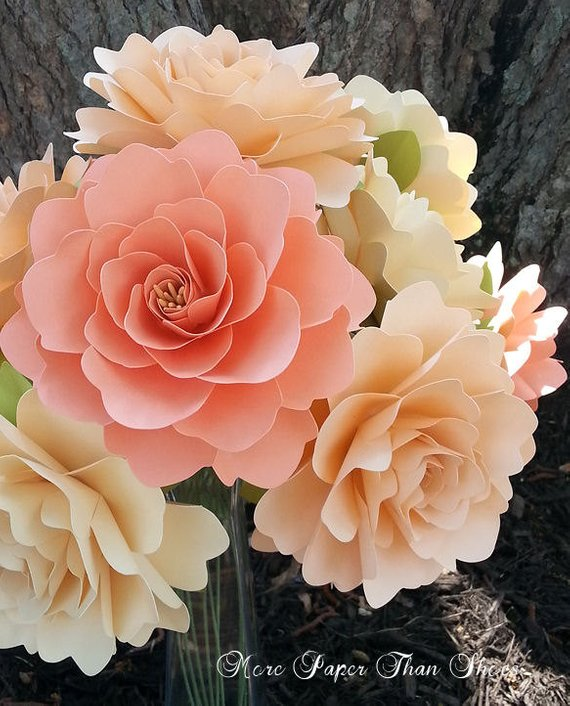
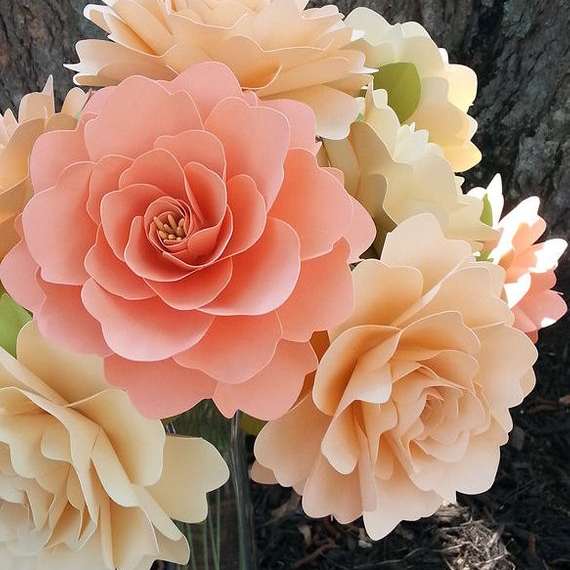
need to fix image size and remaining hovers

diff --git a/index.html b/index.html
@@ -4,11 +4,14 @@
 <link type="text/css" rel="stylesheet" href='main.css' />
 
 <!-- bootstrap -->
-<link rel="stylesheet" href="https://stackpath.bootstrapcdn.com/bootstrap/4.1.1/css/bootstrap.min.css" integrity="sha384-WskhaSGFgHYWDcbwN70/dfYBj47jz9qbsMId/iRN3ewGhXQFZCSftd1LZCfmhktB" crossorigin="anonymous">
+<!-- <link rel="stylesheet" href="https://stackpath.bootstrapcdn.com/bootstrap/4.1.1/css/bootstrap.min.css" integrity="sha384-WskhaSGFgHYWDcbwN70/dfYBj47jz9qbsMId/iRN3ewGhXQFZCSftd1LZCfmhktB" crossorigin="anonymous"> -->
 
 <!-- materialize css -->
 <link rel="stylesheet" href="https://cdnjs.cloudflare.com/ajax/libs/materialize/1.0.0-rc.2/css/materialize.min.css">
-
+<!--
+animate class -->
+<link rel="stylesheet"
+  href="https://cdn.jsdelivr.net/npm/animate.css@3.5.2/animate.min.css">
 
 
 
@@ -19,52 +22,81 @@
   <div>
     <nav>
   <div class="nav-wrapper">
-    <a class="brand-logo" >Munder Difflin Custom Stationary and Paper Products</a>
+    <a class="brand-logo">Munder Difflin Custom Stationary and Paper Products</a>
     <ul id="nav-mobile" class="right hide-on-med-and-down">
       <li><a href="#">Login</a></li>
       <li><a href="#">Checkout</a></li>
-      <!-- <li><a href="collapsible.html">JavaScript</a></li> -->
     </ul>
   </div>
 </nav>
-
-
 </div>
 
+<section>
+    <nav>
+      <div class=" sale-wrap">
+        <a href="#" class="brand-logo center animated flash infinite">SALE! going on now! +Free Shipping</a>
+        <button class="right">Click Here! to save!</button>
+        </ul>
+      </div>
+    </nav>
+  </section>
 
-<div class="b-container">
+<br>
+<div>
 
 
-  <div id="main-img">
+  <div class="animated fadeIn"   id="main-img">
       <img src="images/backpic.jpg">
     </div>
 
-
-
+<br>
 <div id="reviews-banner">
  <div class="reviews-grid">
-   <p>"I love my personalized stationary! Such Great quality and for such a low price! Definitely reordering.""    - Nat (NY)</p>
+  <div> <p><i><b>"I love the personalized stationary! Such great quality and for such low prices! I just reordered for myself and as gifts for my friends"</i></b></p>
 
-   <p>"Everyone marveled over our wedding invitations!  We coudl not have asked for anything more."       - Janet &  Mike (CA)</p>
+    <p style="text-align:right"><i><b>- Nat P. (NY)</i></b></p>
+</div>
+
+   <div><p><i><b>"Everyone marveled over our wedding invitations!  And the service we received in the customizing process, is unmatched.  We could not have asked for anything more.  Thank you for everything."</i></b></p>
+      <p style="text-align:right"><i><b>- Jes &  Mike S. (FL)</i></b></p></div>
 
 
-   <p>"I love the quality of the custom organic floral papers.  I make personalized greeting cards with them and my customers LOVE it!  -JS</p>
+  <div> <p><i><b>"I love the quality of the organic floral stationary.  I make personalized greeting cards with them and my customers LOVE it! </i></b></p>
+    <p style="text-align:right"><i><b>-JG (CA)</i></b></p></div>
 
-   <p>Paper flowres</p>
+
+   <div><p><i><b>"Gorgous paper flowers and thank you cards for my baby shower.  The prices are unbeatable for the superior level of quality."   </i></b></p>
+      <p style="text-align:right"><i><b>- Keisha M. (TX)</i></b></p></div>
 
  </div>
 </div>
 
 
+<p></p>
 
 <div>
   <div class="sale-grid">
-    <div><img src="images/custom.jpg" class=></div>
-    <div><img src="images/flowers.jpg"></div>
-    <div><img src="images/invite.jpg"></div>
-    <div><img src="images/flo.jpg"></div>
-    <div><img src="images/wed.jpg"></div>
-    <div><img src="images/stat.jpg"></div>
+    <div class="basket" id="pic1">
+        <div><img src="images/custom.jpg" class="pic-size"></div>
+        <div class="centered hidden" id="text1">Custom Paper</div>
+    </div>
+
+    <div class="basket">
+        <div><img src="images/flowers.jpg" class="pic-size" id="pic2"></div>
+        <div class="centered hidden" id="text2">Paper Flowers</div>
+    </div>
+
+
+    <div><img src="images/invite.jpg" class="pic-size" id="pic3">Custom Invitations</div>
+
+
+    <div><img src="images/flo.jpg" class="pic-size" id="pic4">Pressed Flowers</div>
+
+
+    <div><img src="images/wed.jpg" class="pic-size"id="pic5">Wedding Invitations</div>
+
+
+    <div><img src="images/stat.jpg" class="pic-size" id="pic6">Custom Stationary</div>
 
 
 
@@ -78,6 +110,9 @@
 
 
 </div>
+
+<br>
+<br>
 <footer class="footer-grid">
   <p></p>
   <div class="footer-grid">

diff --git a/main.js b/main.js
@@ -1,0 +1,80 @@
+document.getElementById('pic1').addEventListener('mouseover', mouseOver);
+document.getElementById('pic1').addEventListener('mouseout', mouseOut);
+// var text = document.getElementById('text1').value
+
+function mouseOver() {
+  document.getElementById('pic1').style.opacity=0.5;
+  document.getElementById('text1').style.opacity=1;
+}
+function mouseOut() {
+  document.getElementById('pic1').style.opacity=1;
+  document.getElementById('text1').style.opacity=0;
+
+}
+
+ // +++++++++++++pic2+
+ document.getElementById('pic2').addEventListener('mouseover', mouseOver2);
+ document.getElementById('pic2').addEventListener('mouseout', mouseOut2);
+
+ function mouseOver2() {
+   document.getElementById('pic2').style.opacity=0.5;
+   document.getElementById('text2').style.opacity=1;
+ }
+
+ function mouseOut2() {
+   document.getElementById('pic2').style.opacity=1;
+   document.getElementById('text2').style.opacity=0;
+ }
+
+
+
+
+
+
+
+
+
+ // +++++++++++++pic3+++
+ document.getElementById('pic3').addEventListener('mouseover', mouseOver3);
+ document.getElementById('pic3').addEventListener('mouseout', mouseOut3);
+
+ function mouseOver3() {
+   document.getElementById('pic3').style.opacity=0.5;
+ }
+
+ function mouseOut3() {
+   document.getElementById('pic3').style.opacity=1;
+ }
+ // +++++++++++++pic4+++
+ document.getElementById('pic4').addEventListener('mouseover', mouseOver4);
+ document.getElementById('pic4').addEventListener('mouseout', mouseOut4);
+
+ function mouseOver4() {
+   document.getElementById('pic4').style.opacity=0.5;
+ }
+
+ function mouseOut4() {
+   document.getElementById('pic4').style.opacity=1;
+ }
+ // ++++++++++++pic5++++
+ document.getElementById('pic5').addEventListener('mouseover', mouseOver5);
+ document.getElementById('pic5').addEventListener('mouseout', mouseOut5);
+
+ function mouseOver5() {
+   document.getElementById('pic5').style.opacity=0.5;
+ }
+
+ function mouseOut5() {
+   document.getElementById('pic5').style.opacity=1;
+ }
+ // +++++++++++++pic6+++
+ document.getElementById('pic6').addEventListener('mouseover', mouseOver6);
+ document.getElementById('pic6').addEventListener('mouseout', mouseOut6);
+
+ function mouseOver6() {
+   document.getElementById('pic6').style.opacity=0.5;
+ }
+
+ function mouseOut6() {
+   document.getElementById('pic6').style.opacity=1;
+ }

diff --git a/main.css b/main.css
@@ -1,5 +1,12 @@
+html {
+  font-family: comfortaa;
+}
+
+
 .nav-wrapper {
   background-color: #f3a683;
+  color: #109fb2;
+
 }
 
 .nav-wrapper-logo {
@@ -10,49 +17,96 @@
   background-color: #f19066;
 }
 
-/* .main-img {
-  align-items: center;
+#main-img {
+  text-align: center;
+}
+
+.animated {
+   animation-duration: 4s !important;
+ }
+
+/* w3schools.com/hlogoowto/howto_css/_image_text.asp */
+.basket {
+  position:relative;
+  text-align: center;
+  color: #109fb2;
+  font-size: 30px;
+}
+
+.centered {
+  position: absolute;
+  top: 36%;
+  left: 50%;
+  transform: translate(-50%, -50%);
+  font-weight: bold;
+}
+
+
+
+/* #text {
+
 } */
 
-.b-container {
-max-width: 100%;
-margin: 0 auto;
+
+.hidden {
+opacity: 0;
 }
+  /* .b-container {
+  max-width: 100%;
+  margin: 0 auto;
+  } */
 
 
 .footer-grid {
 display: grid;
 grid-template-columns: auto auto auto auto;
 grid-template-rows: 20px;
-
+padding-left: 11.5%;
 }
 
 #reviews-banner {
 background-color: #f5cd79;
 padding: 40px 40px;
+color: #208d9b;
 }
 
+
+
 .reviews-grid {
+  margin-bottom: -8%;
   display: grid;
   grid-template-columns: auto auto;
   grid-template-rows: auto auto auto;
-  grid-gap: 20px;
-  padding: 20px
+  grid-gap: 80px;
+  padding: 10px;
 }
 
 .sale-grid {
-  display:flex;
-  /* grid-template-columns: 300px 300px 300px;
-  grid-template-rows: 300px 300px;
-  grid-gap: 20px;
-  padding: 20px */
+    display: grid;
+    grid-template-rows: 300px 300px;
+    grid-template-columns: auto auto auto;
+    grid-gap: 15px;
+    padding-left: 40px;
 }
 
-.fit {
-            width: 100%;
-            height: 100%;
+button {
+margin-left: 5px;
+vertical-align: center;
+}
 
-/* display: grid;
-grid-template-rows: 185px 200px;
-grid-template-columns: 280px 280px 280px;
-grid-gap: 15px; */
+.sale-wrap {
+  background-color: #c44569;
+}
+
+
+/* .reviews-grid {
+  display:flex;
+  flex-flow: row wrap;
+  justify-content: space-between;
+  padding: 20px;
+} */
+
+  .pic-size {
+  height: 100%;
+  width: 90%;
+  }
